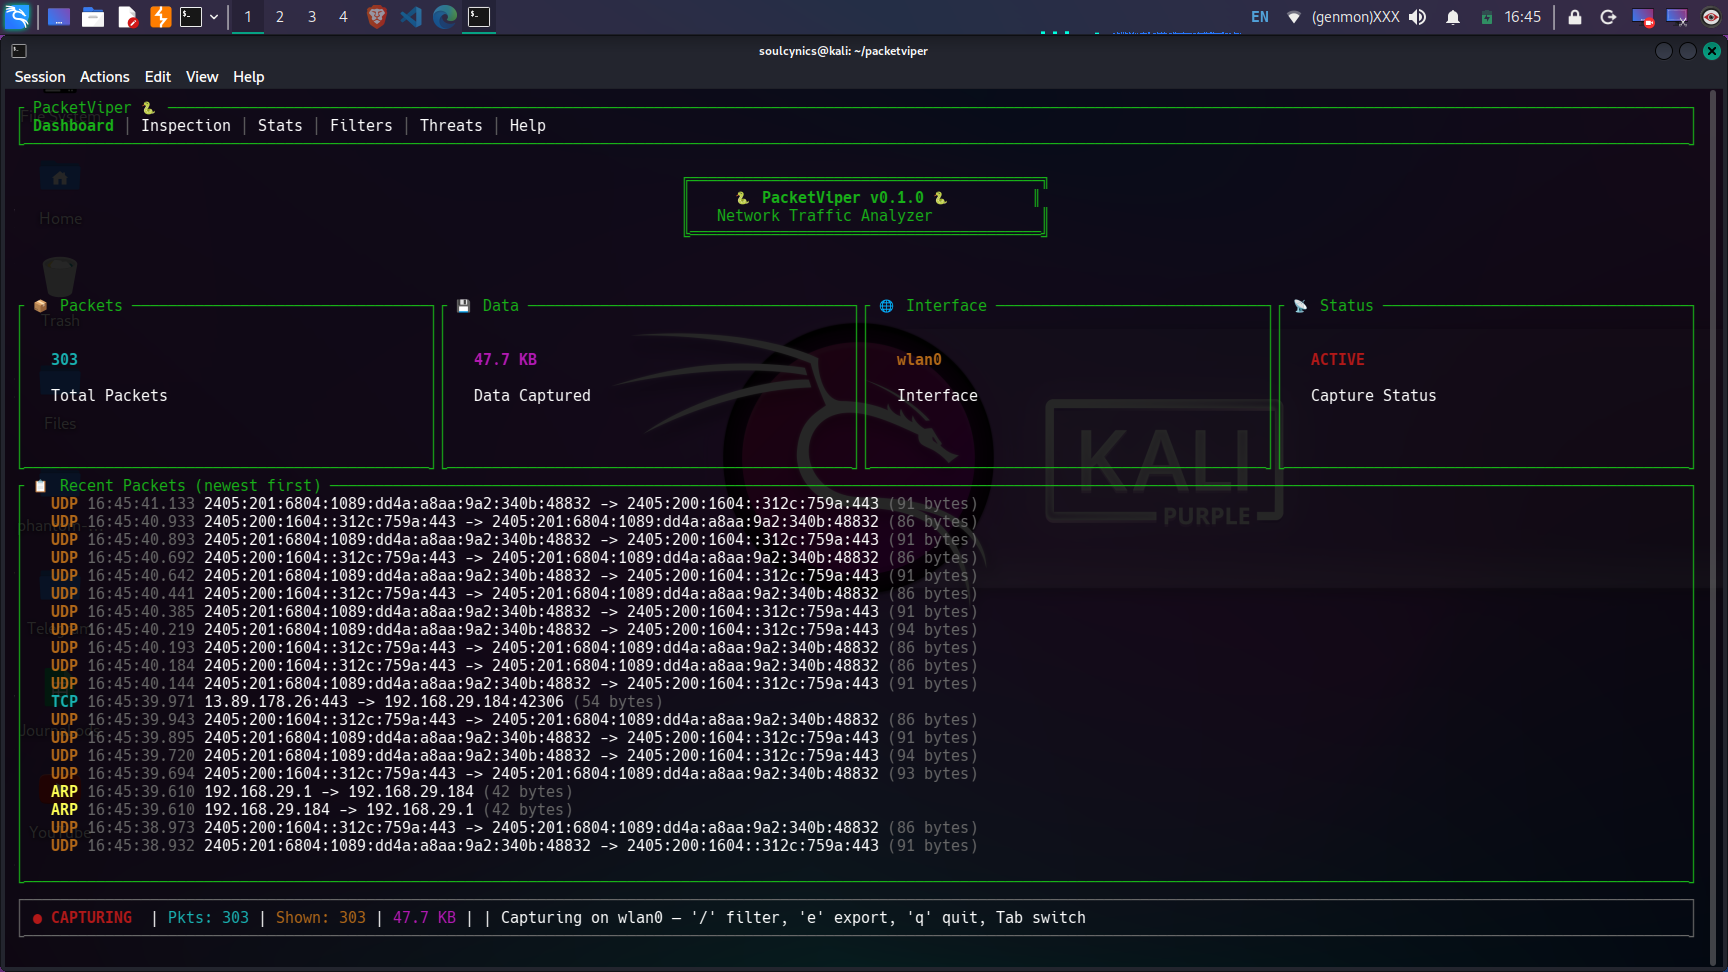
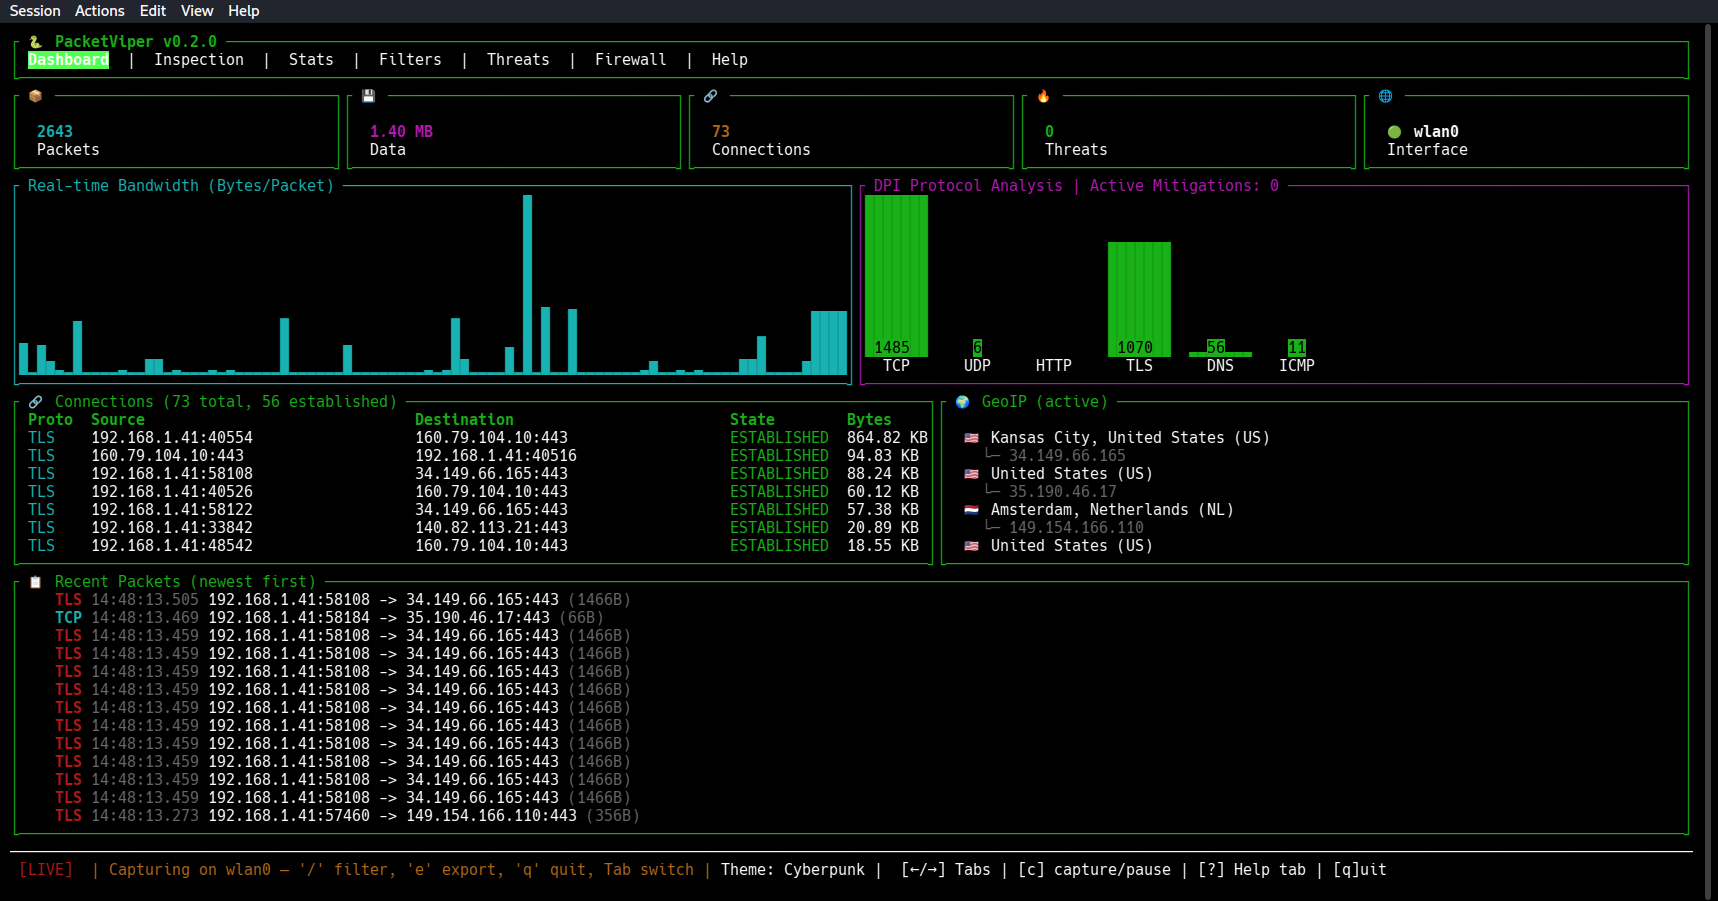
docs: refresh README screenshots for v0.2.0; update Threats and Filters tab text

diff --git a/packetviper-tui/src/ui/threats.rs b/packetviper-tui/src/ui/threats.rs
@@ -83,11 +83,16 @@ pub fn render(f: &mut Frame, app: &App, area: Rect) {
             )),
             Line::from(""),
             Line::from("  The threat detector monitors for:"),
-            Line::from("    • Port scanning (>15 unique ports from same source)"),
-            Line::from("    • ARP spoofing (multiple MACs for same IP)"),
-            Line::from("    • DNS tunneling (unusually long domain queries)"),
-            Line::from("    • Suspicious port usage (known malware ports)"),
-            Line::from("    • High traffic rate (>500 pkt/10s from one source)"),
+            Line::from("    • Gateway spoofing / MITM relay (someone intercepting your traffic)"),
+            Line::from("    • ARP spoofing (an IP claimed by a new MAC)"),
+            Line::from("    • ICMP redirects, rogue DHCP servers, rogue IPv6 routers (mitm6)"),
+            Line::from("    • Access attempts and brute force on file sharing / remote access (SMB, SSH, RDP, VNC...)"),
+            Line::from("    • Port scanning (>15 unique ports from one source in 60s)"),
+            Line::from("    • SYN/ICMP floods (>200 new connection attempts in 10s)"),
+            Line::from("    • LLMNR/NetBIOS poisoning (Responder), MAC flooding"),
+            Line::from("    • DNS tunneling and traffic to known backdoor ports"),
+            Line::from(""),
+            Line::from("  High/Critical alerts show a danger banner, beep and send a desktop notification."),
         ])
         .block(
             Block::default()

diff --git a/packetviper-tui/src/ui/filters.rs b/packetviper-tui/src/ui/filters.rs
@@ -110,7 +110,7 @@ pub fn render(f: &mut Frame, app: &App, area: Rect) {
             " ── Field Filters ──",
             Style::default().fg(app.theme.accent1).add_modifier(Modifier::BOLD),
         )),
-        Line::from("   ip == 192.168.1.1         Source IP matches"),
+        Line::from("   ip == 192.168.1.1         Source or destination IP"),
         Line::from("   dst == 8.8.8.8            Destination IP"),
         Line::from("   port == 443               Source or destination port"),
         Line::from("   sport == 80               Source port only"),

diff --git a/README.md b/README.md
@@ -53,10 +53,18 @@
 </details>
 
 <details>
-<summary>🛡 <b>Threat Detection</b> — ARP spoofing, port scanning, DNS tunneling detection (click to expand)</summary>
+<summary>🛡 <b>Threat Detection</b> — MITM, ARP spoofing, rogue DHCP/IPv6, remote-access attempts, scans and floods (click to expand)</summary>
 <br>
 
 ![Threats](assets/threats.png)
+
+</details>
+
+<details>
+<summary>🔥 <b>Firewall View</b> — Auto-defence status, gateway baseline, active protections (click to expand)</summary>
+<br>
+
+![Firewall](assets/firewall.png)
 
 </details>
 
@@ -146,7 +154,7 @@ A powerful domain-specific language for filtering traffic:
 
 | Filter | Description |
 |--------|-------------|
-| `ip == 192.168.1.1` | Source IP match |
+| `ip == 192.168.1.1` | Source or destination IP |
 | `dst == 8.8.8.8` | Destination IP |
 | `port == 443` | Source or destination port |
 | `sport == 80` | Source port only |
